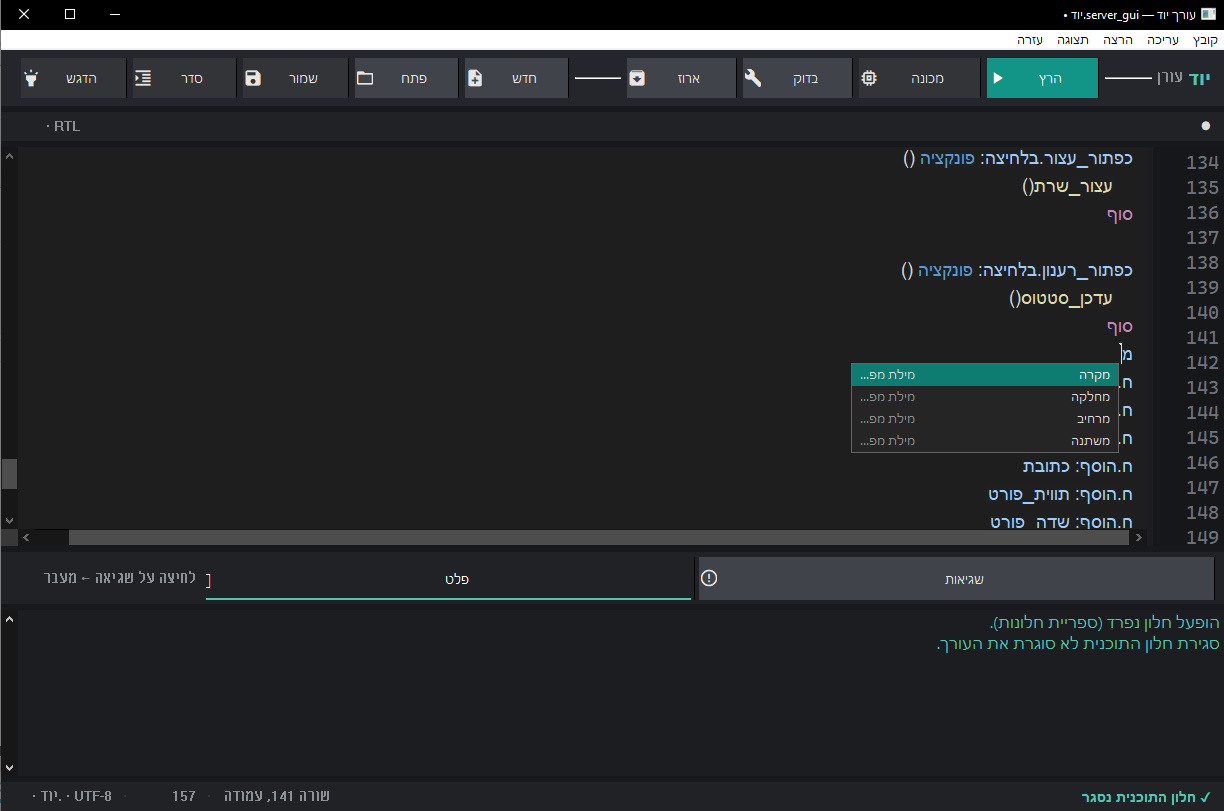
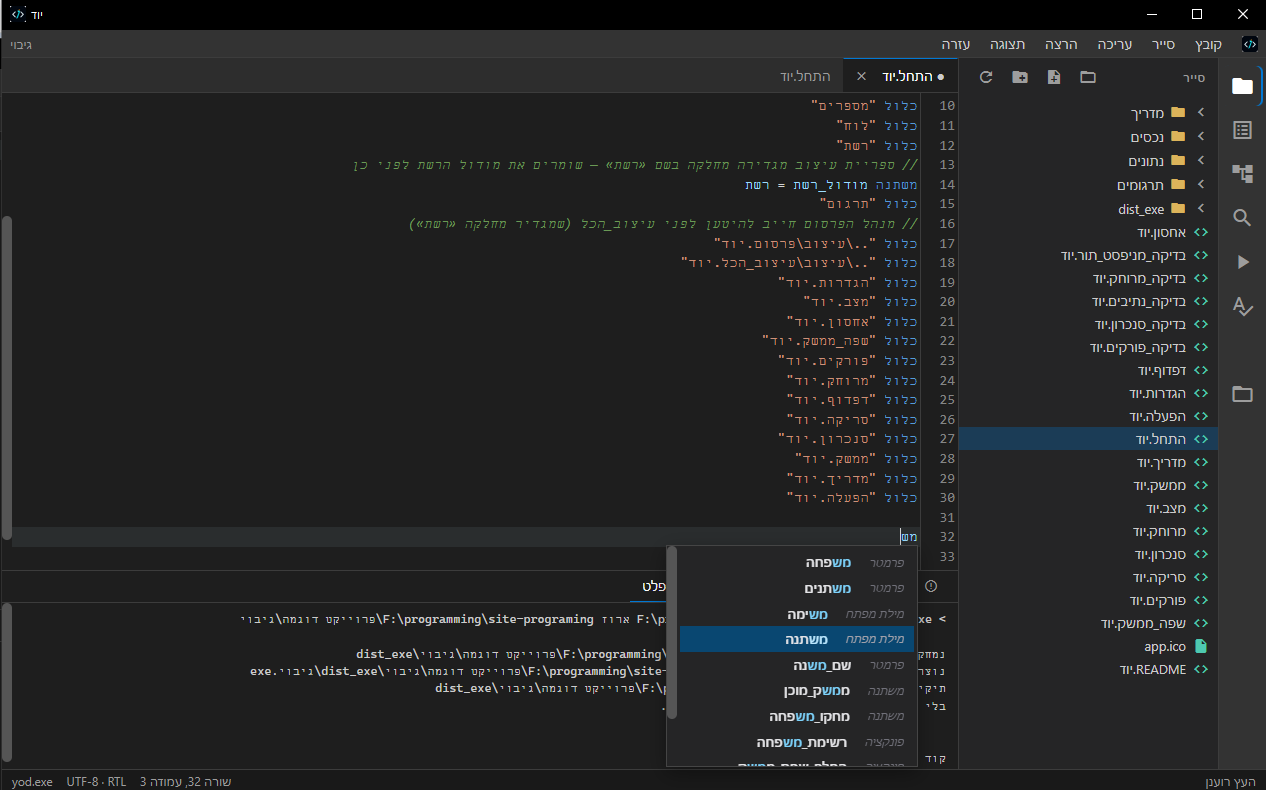
צילומי מסך: עדכון תמונות העורך והסרת ישנות
הוחלפו editor-code / editor-autocomplete בתמונות חדשות של העורך,
והוסרו editor-error ו-server-gui-browser שאינן בשימוש. README עודכן בהתאם.

diff --git a/README.md b/README.md
@@ -7,17 +7,11 @@
 גרסה נוכחית: **0.99.1**
 
 <p align="center">
-  <img src="docs/screenshots/editor-code.png" alt="עורך יוד — קוד בעברית" width="720" />
+  <img src="docs/screenshots/editor-code.png" alt="עורך יוד — קוד בעברית" width="820" />
 </p>
 
 <p align="center">
-  <img src="docs/screenshots/editor-autocomplete.png" alt="השלמה אוטומטית בעורך" width="360" />
-  &nbsp;
-  <img src="docs/screenshots/server-gui-browser.png" alt="שרת יוד — GUI ודפדפן" width="360" />
-</p>
-
-<p align="center">
-  <img src="docs/screenshots/editor-error.png" alt="עורך יוד — הצגת שגיאת קומפילציה" width="720" />
+  <img src="docs/screenshots/editor-autocomplete.png" alt="השלמה אוטומטית בעורך" width="820" />
 </p>
 
 ---
